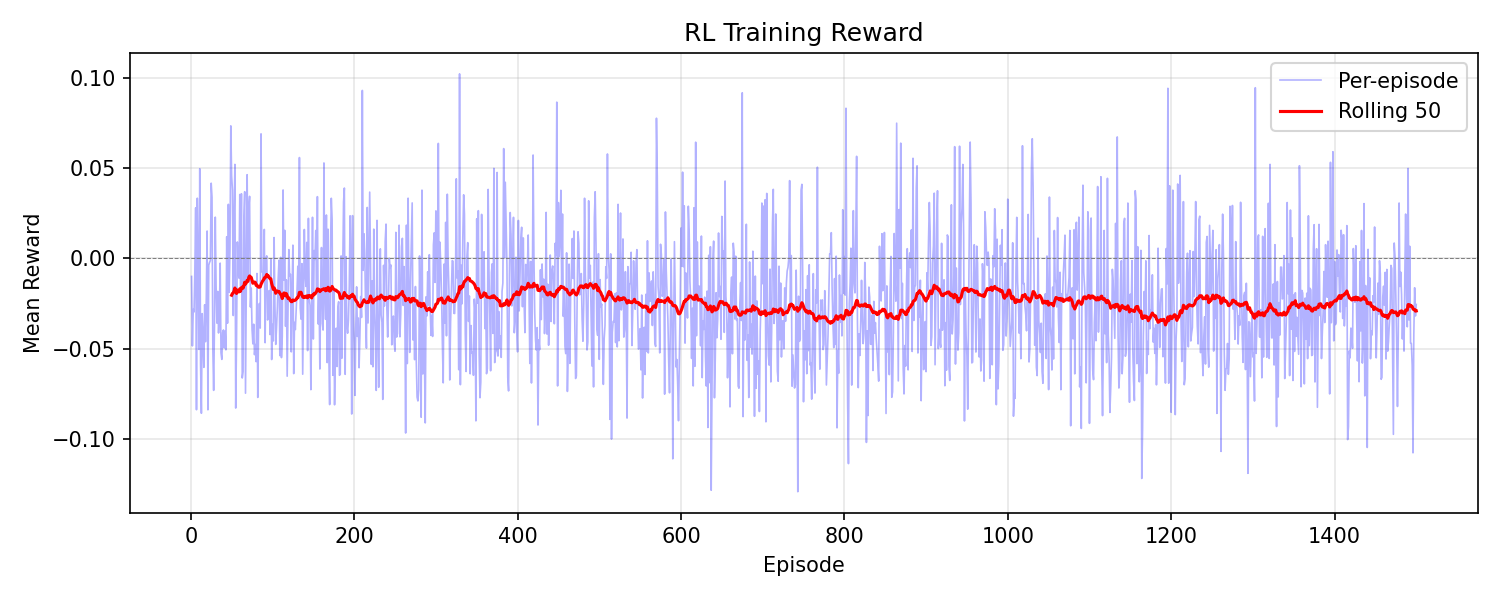
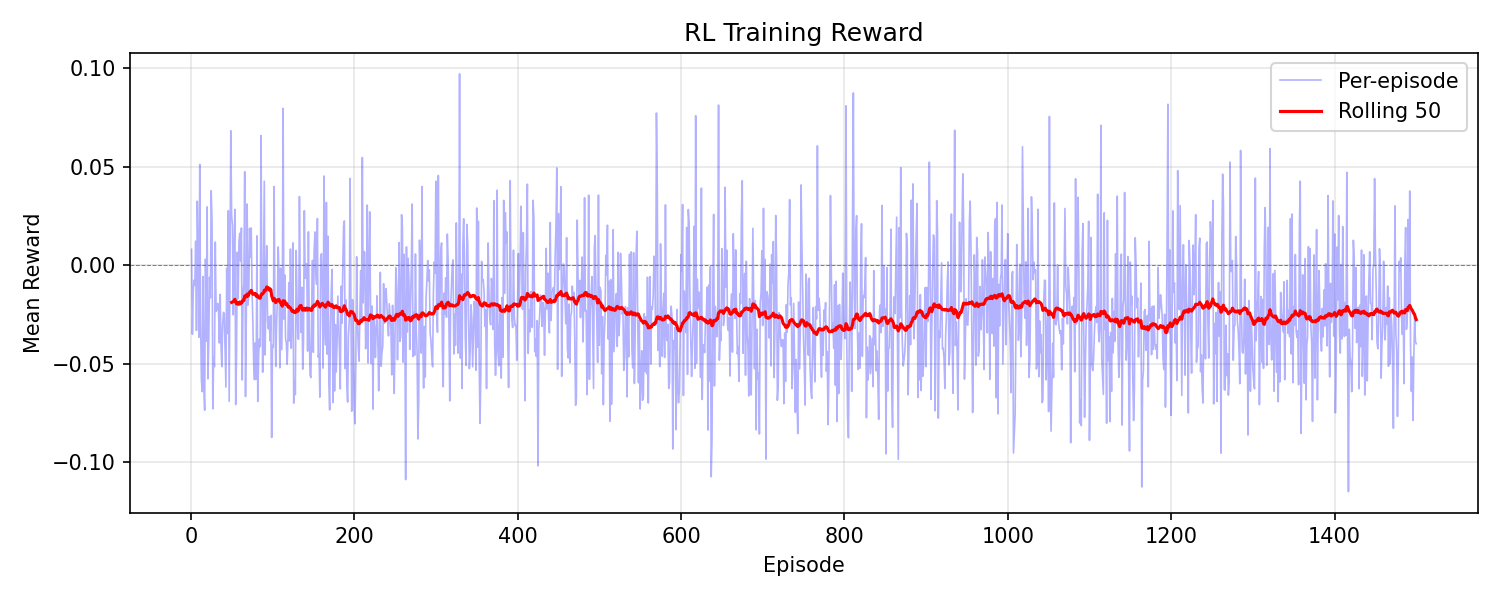
update evaluation metric

diff --git a/train_rl.py b/train_rl.py
@@ -15,7 +15,9 @@ from dataset import StockDataset
 from env import AShareTradingEnv
 from grpo_trainer import GRPOTrainer
 from rl_utils import build_port_state, ObsCache
-from plot import plot_rl_reward_curve
+from plot import plot_rl_reward_curve, plot_greedy_eval_curve
+from greedy_eval import build_eval_windows, evaluate_greedy
+from backtest_rl import load_benchmark_close_map
 
 
 SEED = 42
@@ -179,12 +181,46 @@ def main():
     grouped = df.sort_values('trade_date').groupby('ts_code')
     obs_cache = ObsCache(grouped, avail_features, env, seq_len)
 
+    # 固定窗口贪心评估：在 held-out(VAL) 区间取一组固定窗口，构成可跨步比较的学习曲线
+    eval_starts = build_eval_windows(
+        env, config.VAL_START, config.VAL_END, seq_len,
+        config.EPISODE_LEN, config.EVAL_MAX_WINDOWS)
+    eval_close_map = load_benchmark_close_map()
+    if config.EVAL_INTERVAL > 0:
+        print(f"Greedy eval: {len(eval_starts)} fixed VAL windows "
+              f"every {config.EVAL_INTERVAL} steps.")
+
     print(f"RL training for {config.RL_STEPS} episodes "
           f"({len(valid_starts)} valid starts)...")
     print("Training encoder + policy end-to-end with GRPO from scratch.")
-    best_reward = -np.inf
+    best_alpha = -np.inf
     reward_history = []
+    eval_history = []  # (step, excess_mean, mean_ret, episode_ir, win_rate)
     t_start = time.time()
+
+    def save_best(step):
+        save_path = os.path.join(config.CACHE_DIR, "best_rl_policy.pt")
+        os.makedirs(config.CACHE_DIR, exist_ok=True)
+        torch.save({
+            "encoder": encoder.state_dict(),
+            "policy": policy.state_dict(),
+            "step": step,
+            "config": {
+                'UNIVERSE': universe_tag(getattr(config, 'UNIVERSE', None)),
+                'HIDDEN_DIM': config.HIDDEN_DIM,
+                'NUM_HEADS': config.NUM_HEADS,
+                'SEQ_LEN': config.SEQ_LEN,
+                'DROPOUT': config.DROPOUT,
+                'N_BINS': config.N_BINS,
+                'BINS': config.BINS,
+                'N_HOLD': config.N_HOLD,
+                'N_EXTRA_STATE': config.N_EXTRA_STATE,
+                'EPISODE_LEN': config.EPISODE_LEN,
+                'MAX_CASH': config.MAX_CASH,
+                'USE_DIFFUSION_DENOISER': config.USE_DIFFUSION_DENOISER,
+                'DYNAMIC_FEATURES': avail_features,
+            },
+        }, save_path)
 
     for step in range(config.RL_STEPS):
         start_idx = random.choice(valid_starts)
@@ -207,39 +243,33 @@ def main():
                   f"kl={metrics['kl']:.4f} | "
                   f"{speed:.2f} ep/s | ETA {eta/60:.1f}min")
 
-        window = reward_history[-100:]
-        avg_reward = np.mean(window)
-        if len(reward_history) >= 100 and avg_reward > best_reward:
-            best_reward = avg_reward
-            save_path = os.path.join(config.CACHE_DIR, "best_rl_policy.pt")
-            os.makedirs(config.CACHE_DIR, exist_ok=True)
-            torch.save({
-                "encoder": encoder.state_dict(),
-                "policy": policy.state_dict(),
-                "step": step,
-                "config": {
-                    'UNIVERSE': universe_tag(getattr(config, 'UNIVERSE', None)),
-                    'HIDDEN_DIM': config.HIDDEN_DIM,
-                    'NUM_HEADS': config.NUM_HEADS,
-                    'SEQ_LEN': config.SEQ_LEN,
-                    'DROPOUT': config.DROPOUT,
-                    'N_BINS': config.N_BINS,
-                    'BINS': config.BINS,
-                    'N_HOLD': config.N_HOLD,
-                    'N_EXTRA_STATE': config.N_EXTRA_STATE,
-                    'EPISODE_LEN': config.EPISODE_LEN,
-                    'MAX_CASH': config.MAX_CASH,
-                    'USE_DIFFUSION_DENOISER': config.USE_DIFFUSION_DENOISER,
-                    'DYNAMIC_FEATURES': avail_features,
-                },
-            }, save_path)
+        # 固定窗口贪心评估：跨步可比的学习曲线，并据 alpha(excess_mean) 选最优
+        if (config.EVAL_INTERVAL > 0 and eval_starts and
+                step % config.EVAL_INTERVAL == 0):
+            em = evaluate_greedy(encoder, policy, env, obs_cache, device,
+                                 eval_starts, eval_close_map)
+            if em is not None:
+                alpha = em['excess_mean']
+                eval_history.append((step, alpha, em['mean_ret'],
+                                     em['episode_ir'], em['win_rate']))
+                tag = ""
+                if alpha > best_alpha:
+                    best_alpha = alpha
+                    save_best(step)
+                    tag = "  <- best"
+                print(f"  [EVAL step {step}] alpha(excess)={alpha*100:+.3f}%  "
+                      f"ret={em['mean_ret']*100:+.3f}%  "
+                      f"IR={em['episode_ir']:.3f}  "
+                      f"beat={em['beat_bench_rate']*100:.0f}%  "
+                      f"win={em['win_rate']*100:.0f}%{tag}")
 
-    print(f"Training done. Best avg reward (100-step): {best_reward:.6f}")
+    print(f"Training done. Best greedy-eval alpha: {best_alpha*100:+.3f}%")
     total_time = time.time() - t_start
     print(f"Total training time: {total_time/60:.1f} min "
           f"({total_time/config.RL_STEPS:.2f} s/episode)")
     print(f"Model saved to {os.path.join(config.CACHE_DIR, 'best_rl_policy.pt')}")
     plot_rl_reward_curve(reward_history)
+    plot_greedy_eval_curve(eval_history)
 
 
 if __name__ == "__main__":

diff --git a/greedy_eval.py b/greedy_eval.py
@@ -1,0 +1,68 @@
+"""固定窗口贪心评估：衡量 RL 真实学习效果。
+
+训练过程中的 mean_reward 不是有效的学习曲线——每个 RL step 用不同的
+start_idx（不同市场窗口），奖励被大盘 beta 主导，跨 step 不可比。
+本模块改为在一组【固定】的 held-out（VAL）窗口上以【贪心】（argmax，
+确定性）方式跑策略，因此得到的指标跨训练步直接可比，构成真实学习曲线。
+
+复用 backtest_rl 的 run_one_episode / compute_episode_metrics，保证评估口径
+与最终回测完全一致。
+"""
+import numpy as np
+import torch
+
+import config
+from backtest_rl import (run_one_episode, compute_episode_metrics,
+                         load_benchmark_close_map)
+
+
+def build_eval_windows(env, start_date, end_date, seq_len, episode_len,
+                       max_windows):
+    """在 [start_date, end_date] 内取非重叠的 EPISODE_LEN 窗口，
+    均匀下采样到至多 max_windows 个。返回固定的 start_idx 列表。"""
+    cand = [i for i, d in enumerate(env.dates)
+            if start_date <= d <= end_date and i >= seq_len
+            and i + episode_len - 1 < len(env.dates)]
+    strided = cand[::episode_len]  # 非重叠步进
+    if max_windows > 0 and len(strided) > max_windows:
+        sel = np.linspace(0, len(strided) - 1, max_windows).astype(int)
+        strided = [strided[k] for k in sel]
+    return strided
+
+
[email redacted]_grad()
+def evaluate_greedy(encoder, policy, env, obs_cache, device, eval_starts,
+                    close_map=None):
+    """在固定窗口上以贪心(argmax)方式评估策略，返回可跨训练步比较的指标。
+
+    切到 eval 模式（denoiser 确定性零噪声、dropout 关闭），跑完后恢复原模式。
+    复用 backtest_rl.run_one_episode / compute_episode_metrics 保证口径一致。
+    """
+    if not eval_starts:
+        return None
+
+    enc_was_training = encoder.training
+    pol_was_training = policy.training
+    encoder.eval()
+    policy.eval()
+
+    bins = torch.tensor(config.BINS, device=device, dtype=torch.float32)
+    saved_state = env.clone()  # 评估会改写 env，先存档稍后还原
+
+    episodes = []
+    try:
+        for start_idx in eval_starts:
+            ep = run_one_episode(encoder, policy, env, obs_cache, device,
+                                 start_idx, bins)
+            episodes.append(ep)
+    finally:
+        # 还原 env 训练态，避免污染后续 RL 采样
+        env.__dict__.update(saved_state.__dict__)
+        if enc_was_training:
+            encoder.train()
+        if pol_was_training:
+            policy.train()
+
+    metrics, r, b, x, mdd = compute_episode_metrics(episodes, close_map)
+    return metrics
+

diff --git a/plot.py b/plot.py
@@ -123,6 +123,56 @@ def plot_rl_reward_curve(reward_history, save_dir=FIGURES_DIR):
     print(f"RL reward curve saved to {path}")
 
 
+def plot_greedy_eval_curve(eval_history, save_dir=FIGURES_DIR):
+    """Plot the fixed-window greedy-eval learning curve.
+
+    eval_history: list of (step, alpha, mean_ret, episode_ir, win_rate).
+    alpha (excess vs CSI300) is the model-selection metric; this is the real
+    learning curve, unlike the per-step training reward.
+    """
+    if not eval_history:
+        return
+    os.makedirs(save_dir, exist_ok=True)
+    arr = np.array(eval_history, dtype=np.float64)
+    steps = arr[:, 0]
+    alpha, mean_ret, ep_ir, win = arr[:, 1], arr[:, 2], arr[:, 3], arr[:, 4]
+
+    fig, axes = plt.subplots(1, 3, figsize=(15, 4))
+    axes[0].plot(steps, alpha * 100, marker='o', ms=3, color='teal')
+    axes[0].axhline(0, color='gray', ls='--', lw=0.6)
+    best_i = int(np.argmax(alpha))
+    axes[0].plot(steps[best_i], alpha[best_i] * 100, marker='*', ms=14,
+                 color='red', label=f'best={alpha[best_i]*100:+.2f}%')
+    axes[0].set_xlabel('RL step')
+    axes[0].set_ylabel('Alpha vs CSI300 (%)')
+    axes[0].set_title('Greedy-Eval Alpha (selection metric)')
+    axes[0].legend(fontsize=8)
+    axes[0].grid(True, alpha=0.3)
+
+    axes[1].plot(steps, mean_ret * 100, marker='o', ms=3, color='steelblue')
+    axes[1].axhline(0, color='gray', ls='--', lw=0.6)
+    axes[1].set_xlabel('RL step')
+    axes[1].set_ylabel('Mean episode return (%)')
+    axes[1].set_title('Greedy-Eval Return')
+    axes[1].grid(True, alpha=0.3)
+
+    axes[2].plot(steps, ep_ir, marker='o', ms=3, color='darkorange',
+                 label='Episode IR')
+    axes[2].plot(steps, win, marker='s', ms=3, color='green',
+                 label='Win rate')
+    axes[2].axhline(0, color='gray', ls='--', lw=0.6)
+    axes[2].set_xlabel('RL step')
+    axes[2].set_title('Greedy-Eval IR / Win rate')
+    axes[2].legend(fontsize=8)
+    axes[2].grid(True, alpha=0.3)
+
+    plt.tight_layout()
+    path = os.path.join(save_dir, 'rl_greedy_eval_curve.png')
+    plt.savefig(path, dpi=150)
+    plt.close()
+    print(f"Greedy-eval curve saved to {path}")
+
+
 def plot_drawdown(nav_csv, save_dir=FIGURES_DIR, filename='drawdown.png'):
     """Plot drawdown curve from NAV history."""
     os.makedirs(save_dir, exist_ok=True)

diff --git a/grpo_trainer.py b/grpo_trainer.py
@@ -135,10 +135,8 @@ class GRPOTrainer:
                     action = cur_dist.sample()
                     if diag_on:
                         traj_actions.append(action.detach())
-                    lp = cur_dist.log_prob(action)
-                    if lp.dim() > 0:
-                        lp = lp.mean()
-                    total_log_prob = total_log_prob + lp
+                    # #2: 先取每只股票的 log_prob，待持仓确定后再筛选累加（见下方）
+                    lp_all = cur_dist.log_prob(action)
 
                     if self.return_predictor is not None and g == 0:
                         date_idx_cur = env_g.current_idx
@@ -174,6 +172,13 @@ class GRPOTrainer:
                     w_sum = target_w.sum()
                     if w_sum > 0:
                         target_w = target_w / w_sum
+
+                    # #2: 只对实际持仓的 N_HOLD 只股票累加 log_prob，
+                    # 屏蔽掉未选中的 ~285 只股票灌进来的梯度噪声。
+                    hold_idx_t = torch.as_tensor(
+                        np.asarray(top_k_idx), device=device, dtype=torch.long)
+                    lp = lp_all[hold_idx_t].mean()
+                    total_log_prob = total_log_prob + lp
 
                     _, reward, done, _ = env_g.step(target_w)
                     if config.DIAG_SMOKE_TEST:

diff --git a/config.py b/config.py
@@ -94,8 +94,14 @@ LAMBDA_AUX = 0.05
 LAMBDA_BENCHMARK = 0.5
 
 # ====== 诊断开关（默认不影响原算法）======
-DIAG_INTERVAL = 10       # 每多少个 update 打印一次诊断指标；设 0 关闭
+DIAG_INTERVAL = 0       # 每多少个 update 打印一次诊断指标；设 0 关闭
 DIAG_SMOKE_TEST = False  # True 时用合成奖励测试 RL 管线（需手动开启）
+
+# ====== 固定窗口贪心评估（衡量 RL 真实学习效果）======
+# 每隔 EVAL_INTERVAL 个 RL step，在一组固定的 held-out(VAL) 窗口上以贪心
+# (argmax) 方式跑策略，得到跨步可比的学习曲线，并据此(alpha)选最优模型。
+EVAL_INTERVAL = 50       # 每多少个 RL step 评估一次；设 0 关闭
+EVAL_MAX_WINDOWS = 20    # 评估用的固定窗口数（非重叠、均匀采样自 VAL 区间）
 
 # ====== Diffusion Denoiser 超参 ======
 USE_DIFFUSION_DENOISER = True